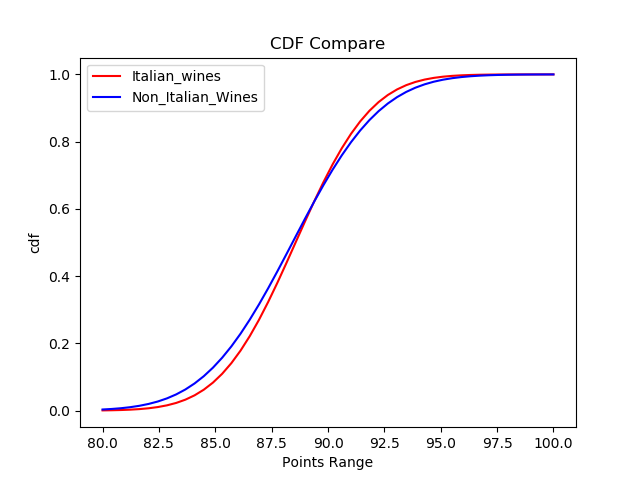
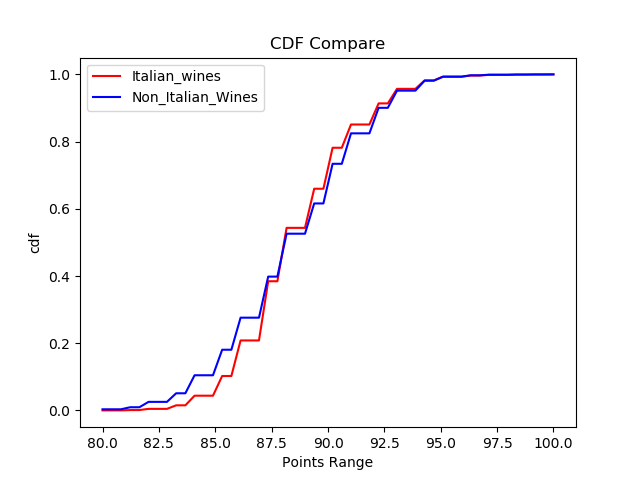
fixed cdf

Changed region(s): [[0.4375, 0.1562, 0.75, 0.5625], [0.1562, 0.5625, 0.4375, 0.875], [0.75, 0.125, 0.7812, 0.1562]]

diff --git a/src/Italian_wine_hypothesis.py b/src/Italian_wine_hypothesis.py
@@ -3,7 +3,7 @@ import matplotlib.pyplot as plt
 import numpy as np
 import scipy.stats as stats
 import seaborn as sns
-
+from statsmodels.distributions.empirical_distribution import ECDF
 from helper_functions import *
 
 #use cleaning functions 
@@ -15,41 +15,27 @@ cols = ['country', 'description', 'points', 'price', 'province', 'region_1', 'ti
 cleaned = cleaner.clean_df(cols)
 
 
-
 #view Italian and non_Italian wine Point values
 x_non_it_data = cleaned[cleaned['country'] != 'Italy']['points']
 x_italy_data = cleaned[cleaned['country'] == 'Italy']['points']
 
-#x_data
-non_italy_mean = np.mean(x_non_it_data)
-non_italy_std = np.std(x_non_it_data, ddof = 1)
-#x_italy_data
-italy_mean = np.mean(x_italy_data)
-italy_std = np.std(x_italy_data, ddof=1)
 
-#norm_dist_of_means
-non_it_norm= stats.norm(non_italy_mean, non_italy_std)
-italy_norm = stats.norm(italy_mean, italy_std)
+x_range = np.linspace(80,100)
+italy_cdf = empirical_distribution_cdf(x_range, x_italy_data)
+non_italy_cdf = empirical_distribution_cdf(x_range, x_non_it_data)
 
-
-
-#plot_cdf_side_by_side
-fig, axs = plt.subplots(1,2)
-plt.subplots_adjust(wspace = 0.6)
-plot_cdf_left(axs[0], italy_norm, 80, 100)
-plot_cdf_right(axs[1], non_it_norm, 80, 100) 
-plt.show()
-plt.close()
-
-#plot_cdf_overlay
+#plot overlay cdf
 fig, ax = plt.subplots(1)
-plot_cdfs_overlay(ax, italy_norm, non_it_norm, 80, 100)
+plot_cdfs_overlay(ax, italy_cdf, non_italy_cdf, 80, 100)
 plt.show()
-plt.close()
 
-# checkout actual p_value
-p_val = stats.ttest_1samp(x_italy_data, non_italy_mean)[1]
+
+
+# The Mann-Whitney U test is a non-parametric test that can be used in place of an unpaired t-test. It is used to test the null hypothesis that two samples come from the same population (i.e. have the same median) or, alternatively, whether observations in one sample tend to be larger than observations in the other.
+
+p_val = stats.mannwhitneyu(x_italy_data, x_non_it_data, use_continuity=False, alternative='greater')[1]
 print(f'The p value is {p_val}.')
+#0.0008348843726267126.
 
 
 

diff --git a/src/helper_functions.py b/src/helper_functions.py
@@ -65,29 +65,29 @@ class DataClean(object):
 
 
 
-def plot_cdfs_overlay(ax, dist_data_a, dist_data_b, low_x, high_x, label_a = 'Italian_wines', label_b = 'Non_Italian_Wines', title= 'CDF Compare', x_label = 'Points Range', y_label = 'cdf'):
+def empirical_distribution_cdf(x, data):
+    '''
+    CDF of provided data
+    input an array
+    '''
+    value_percentage = 1/len(data)
+    acum = np.zeros((len(x)))
+    for val in data:
+        acum = acum + np.array(x>=val)
+    return acum * value_percentage
+
+
+
+def plot_cdf_overlay_2(ax, dist_dict, low_x, high_x):
+    '''
+    parameters: 
+    dictionary has nested dictionaries within their key, 
+    v pairs are data, color, label
+    '''
     x = np.linspace(low_x, high_x)
-    ax.plot(x, dist_data_a.cdf(x), color = 'red', label = label_a)
-    ax.plot(x, dist_data_b.cdf(x), color = 'blue', label = label_b )
-    ax.set_xlabel(x_label)
-    ax.set_ylabel(y_label)
-    ax.set_title(title)
+    for k,kv in dist_dict.items():
+        ax.plot(x, empirical_distribution_cdf(x,kv['data']), color = kv['color'], label = kv['label'])
     ax.legend()
-    
-
-
-
-def plot_cdf_left(ax, dist_data,low_x, high_x, title = 'Italian_wine'):
-    x = np.linspace(low_x, high_x)
-    ax.plot(x, dist_data.cdf(x), color = 'red')
-    ax.set_title(title)
-
-def plot_cdf_right(ax, dist_data,low_x, high_x, title = 'non_Italian_wine'):
-    x = np.linspace(low_x, high_x)
-    ax.plot(x, dist_data.cdf(x), color = 'blue')
-    ax.set_title(title)
-
-
 
 
 

diff --git a/src/region_compare.py b/src/region_compare.py
@@ -1,0 +1,43 @@
+import pandas as pd 
+import matplotlib.pyplot as plt
+import numpy as np
+import scipy.stats as stats
+import seaborn as sns
+from statsmodels.distributions.empirical_distribution import ECDF
+from helper_functions import *
+
+#use cleaning functions 
+path = '~/galvanize/Capstone_1/git_info_wine_ratings/data/winemag-data-130k-v2.csv'
+cleaner = DataClean(path)
+cleaner.replace_val(86909, 'variety', 'Cabernet Sauvignon')
+cleaner.drop_null_rows(['country'])
+cols = ['country', 'description', 'points', 'price', 'province', 'region_1', 'title', 'variety', 'winery']
+cleaned = cleaner.clean_df(cols)
+
+
+#view California data and 
+Italy_data = cleaned[cleaned['country'] == 'Italy']['points']
+France_data = cleaned[cleaned['country'] == 'France']['points']
+California_data = cleaned[cleaned['region_1']=='California']['points']
+
+#add values to dictionary
+distrib_dict = {'California':{'data':California_data, 'color':'red', 'label':'California Wine'}, 'Italy': {'data':Italy_data, 'color': 'green', 'label': 'Italian Wine'}, 'France': {'data':France_data, 'color': 'blue', 'label': 'French Wine'}}
+
+#plot overlay cdf
+fig, ax = plt.subplots(1)
+plot_cdf_overlay_2(ax, distrib_dict, 80, 100)
+plt.savefig('regions_cdf.png')
+plt.show()
+
+
+
+
+
+
+
+#Calfornia 2,629
+#France 22,093
+#Italy 19,540
+#Spearman correlation tests(ordered) 
+#correlation coefficient
+#p_value

diff --git a/README.md b/README.md
@@ -60,4 +60,3 @@ src to help: https://winefolly.com/tips/wine-ratings-explained/
 
 ![picture](images/points_scatter_per_desc.png)
 
-wine region reputations? CA wines are getting popular? Pearson Spearman correlation tests(ordered) Throw in the correlation test add some bullet points showing the assumptions about the data...
